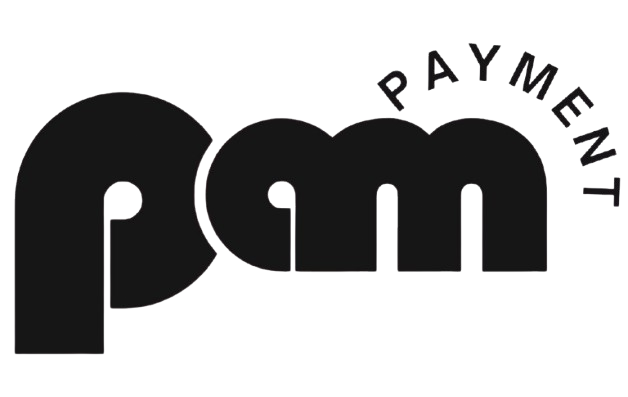
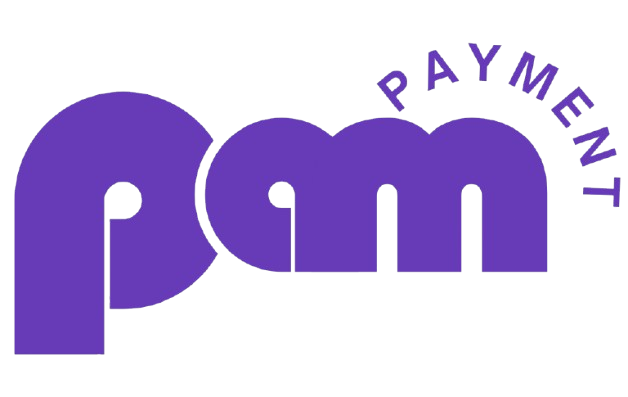
Update color scheme across components; replace black with deep purple and adjust moneyPoint formatting in RegisteredCards

diff --git a/src/components/TabComponents/InstallmentOptions.jsx b/src/components/TabComponents/InstallmentOptions.jsx
@@ -1,74 +1,94 @@
 import React, { useState } from "react";
-import { Radio, FormControl, RadioGroup } from "@mui/material";
-import Checkbox from "@mui/material/Checkbox";
+import { Radio, FormControl, RadioGroup, Checkbox } from "@mui/material";
+import { deepPurple } from "@mui/material/colors";
 
 export default function InstallmentOptions({ installments, moneyPoint }) {
   const [selectedInstallment, setSelectedInstallment] = useState("");
-console.log("installments", installments);
+  const [useMoneyPoint, setUseMoneyPoint] = useState(false);
+
   const handleChange = (event) => {
     setSelectedInstallment(event.target.value);
   };
 
+  const handleMoneyPointChange = (event) => {
+    setUseMoneyPoint(event.target.checked);
+  };
+
   return (
     <>
-    <div className="rounded-lg w-full border border-[#E0E0E0]">
-      <h3 className="text-lg font-semibold p-3 bg-[#E0E0E0]">
-        Taksit Seçenekleri
-      </h3>
-      <FormControl component="fieldset" style={{ width: "100%" }}>
-        <RadioGroup
-          value={selectedInstallment}
-          onChange={handleChange}
-          style={{ width: "100%" }}
+      <div className="rounded-lg w-full border border-[#E0E0E0]">
+        <h3 className="text-lg font-semibold p-3 bg-[#E0E0E0]">
+          Taksit Seçenekleri
+        </h3>
+        <FormControl component="fieldset" style={{ width: "100%" }}>
+          <RadioGroup
+            value={selectedInstallment}
+            onChange={handleChange}
+            style={{ width: "100%" }}
+            sx={{
+              "&.Mui-checked": {
+                color: deepPurple[500],
+              },
+            }}
+          >
+            {installments.map((installment, index) => (
+              <div
+                className="w-full flex items-center h-full border-b border-gray-200 py-2 px-3 hover:bg-gray-100"
+                key={index}
+              >
+                <Radio
+                  value={installment.label}
+                  checked={selectedInstallment === installment.label}
+                  onChange={handleChange}
+                  sx={{
+                    "&.Mui-checked": {
+                      color: deepPurple[500],
+                    },
+                    "& .MuiSvgIcon-root": {
+                      fontSize: 15,
+                    },
+                  }}
+                />
+                <div className="flex justify-between items-center w-full font-light pr-4">
+                  <span
+                    className="flex text-left items-center h-full gap-1 text-xs md:text-sm"
+                    style={{ flex: 1 }}
+                  >
+                    {installment.label}{" "}
+                    <span className="font-semibold text-[0.5rem] md:text-xs">
+                      {installment.isAdvance && " (Peşin Fiyatına)"}
+                    </span>
+                  </span>
+                  <span
+                    className="text-xs md:text-sm"
+                    style={{ textAlign: "right" }}
+                  >
+                    {installment.amount}
+                  </span>
+                </div>
+              </div>
+            ))}
+          </RadioGroup>
+        </FormControl>
+      </div>
+
+      <div className="rounded-lg w-full border border-[#E0E0E0] bg-blue-100 mt-3 p-2 flex items-center gap-2">
+        <Checkbox
+          checked={useMoneyPoint}
+          onChange={handleMoneyPointChange}
           sx={{
+            padding: 0,
+            "& .MuiSvgIcon-root": { fontSize: 18 },
             "&.Mui-checked": {
-              color: "black",
+              color: deepPurple[600],
             },
           }}
-        >
-          {installments.map((installment, index) => (
-            <div
-              className="w-full flex items-center h-full border-b border-gray-200 py-2 px-3 hover:bg-gray-100"
-              key={index}
-            >
-              <Radio
-                value={installment.label}
-                checked={selectedInstallment === installment.label}
-                onChange={handleChange}
-                sx={{
-                  "&.Mui-checked": {
-                    color: "black",
-                  },
-                  "& .MuiSvgIcon-root": {
-                    fontSize: 15,
-                  },
-                }}
-              />
-              <div className="flex justify-between items-center w-full font-light pr-4">
-                <span
-                  className="flex text-left items-center h-full gap-1 text-xs md:text-sm"
-                  style={{ flex: 1 }}
-                >
-                  {installment.label}{" "}
-                  <span className="font-semibold text-[0.5rem] md:text-xs">
-                    {installment.isAdvance && " (Peşin Fiyatına)"}
-                  </span>
-                </span>
-                <span
-                  className="text-xs md:text-sm"
-                  style={{ textAlign: "right" }}
-                >
-                  {installment.amount}
-                </span>
-              </div>
-            </div>
-          ))}
-        </RadioGroup>
-      </FormControl>
-    </div>
-      <div className="rounded-lg w-full border border-[#E0E0E0] bg-blue-100 mt-3 p-1">
-        {moneyPoint}
+        />
+        <span className="text-sm font-semibold">
+          <span className="text-sm text-[#673ab7]">{moneyPoint}</span> ParaPuan
+          Kullan!
+        </span>
       </div>
-      </>
+    </>
   );
 }

diff --git a/src/components/Header/Header.jsx b/src/components/Header/Header.jsx
@@ -6,20 +6,21 @@ import "../../i18n.js";
 import { useTranslation } from "react-i18next";
 import { Select, MenuItem } from "@mui/material";
 import { US, TR } from "country-flag-icons/react/3x2";
+import { deepPurple } from "@mui/material/colors";
 
 export default function Header() {
   const { i18n } = useTranslation();
   const changeLanguage = (event) => i18n.changeLanguage(event.target.value);
 
   return (
-    <div className="flex items-center justify-between bg-black lg:bg-white h-20 px-4 lg:px-8 text-white lg:text-black border-b-2 border-gray-300">
+    <div className="flex items-center justify-between bg-[#673ab7] lg:bg-white h-20 px-4 lg:px-8 text-white lg:text-[#673ab7] border-b-2 border-gray-300">
       {/* Logo */}
       <img src={payMedBlack} alt="logo" className="w-16 lg:hidden" />
       <img src={payMedLogo} alt="logo" className="hidden lg:block w-30" />
 
       {/* Güvenli Ödeme */}
       <div className="flex items-center space-x-1">
-        <GppGoodOutlinedIcon fontSize="medium" sx={{ color: "green" }} />
+        <GppGoodOutlinedIcon fontSize="medium" sx={{ color: "deepPurple" }} />
         <span className="text-sm lg:text-xl font-semibold">Güvenli Ödeme</span>
       </div>
 
@@ -39,17 +40,17 @@ export default function Header() {
           "& .MuiSelect-icon": { color: "white" },
           "@media (min-width: 1024px)": {
             backgroundColor: "white",
-            color: "black",
+            color: deepPurple[500],
             "& .MuiOutlinedInput-notchedOutline": { borderColor: "gray" },
             "&.Mui-focused .MuiOutlinedInput-notchedOutline": {
-              borderColor: "black",
+              borderColor: deepPurple[500],
             },
             "& .MuiSelect-icon": { color: "gray" },
             "& .MuiSelect-select": {
               display: "flex",
               alignItems: "center",
               gap: 1,
-              color: "black",
+              color: deepPurple[500],
             },
           },
         }}

diff --git a/src/components/TotalCount/TotalCountBox.jsx b/src/components/TotalCount/TotalCountBox.jsx
@@ -11,6 +11,7 @@ import Stack from "@mui/material/Stack";
 import PrePaymentModal from "../Modals/PrePaymentModal";
 import KeyboardArrowUpIcon from "@mui/icons-material/KeyboardArrowUp";
 import KeyboardArrowDownIcon from "@mui/icons-material/KeyboardArrowDown";
+import { deepPurple } from "@mui/material/colors";
 
 const orderData = {
   totalPrice: "10.000 TL",
@@ -36,8 +37,8 @@ export default function TotalCountBox() {
       control={
         <Checkbox
           sx={{
-            color: "black",
-            "&.Mui-checked": { color: "black" },
+            color: deepPurple[500],
+            "&.Mui-checked": { color: deepPurple[500] },
             opacity: isChecked ? 1 : 0.5,
             transition: "opacity 0.3s",
           }}
@@ -52,7 +53,7 @@ export default function TotalCountBox() {
             style={{
               cursor: "pointer",
               textDecoration: "underline",
-              color: "black",
+              color: deepPurple[500],
             }}
             onClick={handleOpen}
           >
@@ -107,7 +108,7 @@ export default function TotalCountBox() {
               variant="contained"
               disabled={!isChecked}
               className="!w-full"
-              sx={{ backgroundColor: "black" }}
+              sx={{ backgroundColor: deepPurple[500] }}
             >
               Ödeme Yap
             </Button>
@@ -154,7 +155,7 @@ export default function TotalCountBox() {
               variant="contained"
               disabled={!isChecked}
               className="!w-full"
-              sx={{ width: "100%", backgroundColor: "black" }}
+              sx={{ width: "100%", backgroundColor: deepPurple[500] }}
             >
               Ödeme Yap
             </Button>

diff --git a/src/components/TabComponents/RegisteredCards.jsx b/src/components/TabComponents/RegisteredCards.jsx
@@ -1,6 +1,7 @@
 import React from "react";
 import Radio from "@mui/material/Radio";
 import InstallmentOptions from "./InstallmentOptions";
+import { deepPurple } from "@mui/material/colors";
 
 export default function RegisteredCards() {
   const [selectedValue, setSelectedValue] = React.useState("a");
@@ -16,7 +17,7 @@ export default function RegisteredCards() {
       lastFourDigits: "7890",
       cardHolder: "Buse Durudoğan",
       expirationDate: "01/2025",
-      moneyPoint: "1000 TL",
+      moneyPoint: "1.000 TL",
       installments: [
         { label: "Tek Çekim", amount: "10.000 TL", isAdvance: false },
         { label: "2 Taksit", amount: "2 x 5800,80 TL", isAdvance: false },
@@ -34,7 +35,7 @@ export default function RegisteredCards() {
       lastFourDigits: "1234",
       cardHolder: "Ahmet Yılmaz Durkalidaroğlu",
       expirationDate: "06/2024",
-      moneyPoint: "1000 TL",
+      moneyPoint: "300 TL",
       installments: [
         { label: "Tek Çekim", amount: "25.000 TL", isAdvance: false },
         { label: "2 Taksit", amount: "2 x 13.000,00 TL", isAdvance: false },
@@ -64,7 +65,7 @@ export default function RegisteredCards() {
               name="radio-buttons"
               sx={{
                 "&.Mui-checked": {
-                  color: "black",
+                  color: deepPurple[500],
                 },
               }}
             />
@@ -103,7 +104,7 @@ export default function RegisteredCards() {
               name="radio-buttons"
               sx={{
                 "&.Mui-checked": {
-                  color: "black",
+                  color: deepPurple[500],
                 },
               }}
             />

diff --git a/src/components/TabComponents/PaymentOptions.jsx b/src/components/TabComponents/PaymentOptions.jsx
@@ -5,6 +5,7 @@ import CreditCardIcon from "@mui/icons-material/CreditCard";
 import AttachMoneyIcon from "@mui/icons-material/AttachMoney";
 import RegisteredCards from "./RegisteredCards";
 import NewCard from "./NewCard";
+import { deepPurple } from "@mui/material/colors";
 
 export default function PaymentOptions() {
   const [isPaymentMethodChanged, setIsPaymentMethodChanged] = useState(false);
@@ -25,6 +26,7 @@ export default function PaymentOptions() {
                   display: "flex",
                   alignItems: "center",
                   justifyContent: "center",
+                  color: deepPurple[500],
                 }}
               />
             }
@@ -59,6 +61,7 @@ export default function PaymentOptions() {
                   display: "flex",
                   alignItems: "center",
                   justifyContent: "center",
+                  color: deepPurple[500],
                 }}
               />
             }

diff --git a/src/components/ProgressBar/ProgressBar.jsx b/src/components/ProgressBar/ProgressBar.jsx
@@ -1,5 +1,6 @@
 import React from "react";
 import CheckCircleOutlineOutlinedIcon from "@mui/icons-material/CheckCircleOutlineOutlined";
+import { deepPurple } from "@mui/material/colors";
 
 export default function ProgressBar({ steps }) {
   return (
@@ -8,11 +9,11 @@ export default function ProgressBar({ steps }) {
         <React.Fragment key={index}>
           <div
             className={`flex flex-row gap-1 items-center w-fit ${
-              step?.disabled ? "text-gray-400" : "text-black"
+              step?.disabled ? "text-gray-400" : "text-[#673ab7]"
             }`}
           >
             <CheckCircleOutlineOutlinedIcon
-              sx={{ color: step?.disabled ? "gray" : "black" }}
+              sx={{ color: step?.disabled ? "gray" : deepPurple[500] }}
             />
             <div className="text-xs sm:text-sm md:text-base">{step?.label}</div>
           </div>

diff --git a/src/components/Modals/PrePaymentModal.jsx b/src/components/Modals/PrePaymentModal.jsx
@@ -1,7 +1,7 @@
 import React from "react";
 import { Typography, Button, Box } from "@mui/material";
 import Modal from "./Modal";
-
+import { deepPurple } from "@mui/material/colors";
 const PrePaymentModal = ({ open, onClose }) => {
   return (
     <Modal open={open} onClose={onClose}>
@@ -21,9 +21,9 @@ const PrePaymentModal = ({ open, onClose }) => {
           variant="contained"
           onClick={onClose}
           sx={{
-            backgroundColor: "black",
+            backgroundColor: deepPurple[500],
             "&:hover": {
-              backgroundColor: "black",
+              backgroundColor: deepPurple[500],
             },
           }}
         >

diff --git a/src/components/TabComponents/DeliveryInformation.jsx b/src/components/TabComponents/DeliveryInformation.jsx
@@ -25,7 +25,7 @@ export default function DeliveryInformation() {
         <div className="flex flex-col gap-6 px-1 lg:px-4">
           {[deliveryInfo.shipping, deliveryInfo.billing].map((info) => (
             <div key={info.title} className="flex flex-col gap-1">
-              <div className="font-semibold text-sm text-black pb-2">
+              <div className="font-semibold text-sm pb-2">
                 {info.title}
               </div>
               <div className="flex flex-col gap-1 text-sm text-gray-400">

diff --git a/src/components/Footer/Footer.jsx b/src/components/Footer/Footer.jsx
@@ -15,7 +15,7 @@ const TotalCount = () => {
 
 const Footers = ()  => {
   return (
-    <div className="bg-black text-white h-20 items-center flex justify-between 
+    <div className="bg-[#673ab7] text-white h-20 items-center flex justify-between 
     px-10 lg:px-20 
      w-full">
       <div className="lg:flex hidden">Tüm haklar Saklıdır Copyright © 2025</div>
